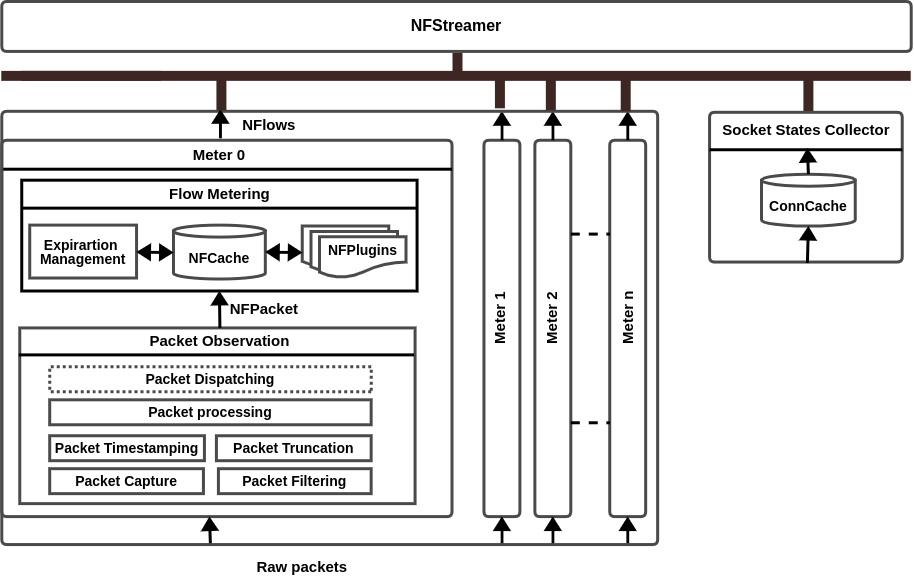
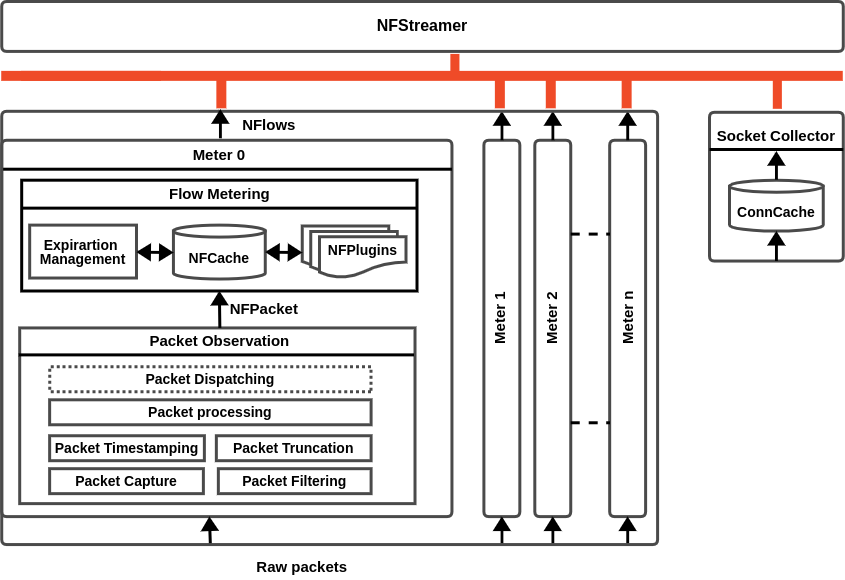
Update docs.

diff --git a/index.html b/index.html
@@ -9,8 +9,7 @@ nav_exclude: true
     <meta name="image" property="og:image" content="https://www.nfstream.org/resources/preview.png">
     <div class="lp-center">
       <h1 style="font-weight: bold">NFStream: Flexible Network Data Analysis Framework</h1>
-      <h2 style="padding-bottom: 30px">NFStream is a multiplatform Python framework providing fast, flexible, and expressive data structures designed to make
-        working with online or offline network data easy and intuitive.</h2>
+      <h2 style="padding-bottom: 30px">a multiplatform Python framework providing fast, flexible, and expressive data structures designed to make working with online or offline network data easy and intuitive.</h2>
       <a href="https://mybinder.org/v2/gh/aouinizied/nfstream-tutorials/master?filepath=demo_notebook.ipynb" class="btn btn-blue fs-5 mb-3 mb-md-5 mr-5">Live Notebook</a>
       <a href="{{ site.baseurl }}/docs/" class="btn btn-blue fs-5 mb-3 mb-md-5">Get Started</a>
     </div>
@@ -52,7 +51,7 @@ offline_streamer = NFStreamer(source="tor.pcap",
 
 df = offline_streamer.to_pandas(columns_to_anonymize=())
 total_flows = offline_streamer.to_csv(flows_per_file=10000,
-                                      columns_to_anonymize=("src_ip"))
+                                      columns_to_anonymize=())
 
 {% endhighlight %}
       </div>
@@ -121,6 +120,7 @@ for flow in extended_streamer:
         <h3>Documentation</h3>
         <ul>
           <li><a href="{{ site.baseurl }}/docs/#installation-guide" class="lp-footer-item">Installation Guide</a></li>
+          <li><a href="{{ site.baseurl }}/docs/design" class="lp-footer-item">Design Overview</a></li>
           <li><a href="{{ site.baseurl }}/docs/api" class="lp-footer-item">API Documentation</a></li>
           <li><a href="{{ site.baseurl }}/docs/releases" class="lp-footer-item">Releases</a></li>
           <li><a href="{{ site.baseurl }}/docs/license" class="lp-footer-item">License</a></li>

diff --git a/docs/api.md b/docs/api.md
@@ -7,22 +7,6 @@ nav_order: 4
 
 # APIs Documentation
 
-<img src="{{ site.baseurl }}/resources/architecture_nfstream.png" alt="drawing" width="730"/>
-
-The flow-based aggregation consists of aggregating packets into flows based on a shared set of characteristics 
-(flow key, e.g., source IP address, destination IP address, transport protocol, source port, destination port, 
-VLAN identifier, tunnel Identifier). A flow cache maintains each flow entry until its termination (e.g., active timeout, inactive timeout).
-While the entry is present in the flow cache, basic counters, and several metrics are updated. 
-If two pairs generate flows on both directions, the flow cache uses a bidirectional flow definition, adding counters 
-and metrics for both directions.
-
-In the above schema, NFStream overall architecture is depicted and could be summarized as follows:
-* NFStreamer: the driver process, it is responsible of setting the overall workflow which is mainly an orchestration of 
-parallel metering processes.
-* Meters: are the core parts of NFStream framework. Raw packets are processed (e.g. timestamped, decoded, truncated) 
-and dispatched across meters. Each meter is able to aggregate packet information into flow and compute required features 
-until flow expiration is triggered (active timeout, inactive timeout).
-
 ## Table of contents
 {: .no_toc .text-delta }
 

diff --git a/docs/design.md b/docs/design.md
@@ -91,10 +91,10 @@ each time a new NFPacket is mapped to the flow entry. Finally, on_expire is perf
 expired. Consequently, extending NFStream is simple. Adding new flow features or ML model outcomes can be achieved 
 in just a few lines.
 
-## Socket state collector
-Socket state collector probes the Operating System kernel logs to construct a view of the active connections table.
-It is only activated when system visibility mode is set for end-host ground truth generation.
-The collector detects creation and closing of connections and send these state updates to the streamer.
+## Socket collector
+Socket collector probes the Operating System logs to construct a view of the active connections table.
+It is only activated when system visibility mode is set for end-host ground truth generation. The collector detects 
+creation and closing of connections and send these state updates to the streamer.
 
 > **Performance considerations**: Please read current design [**details**][net_connection] before considering enabling 
 > this component at scale.
